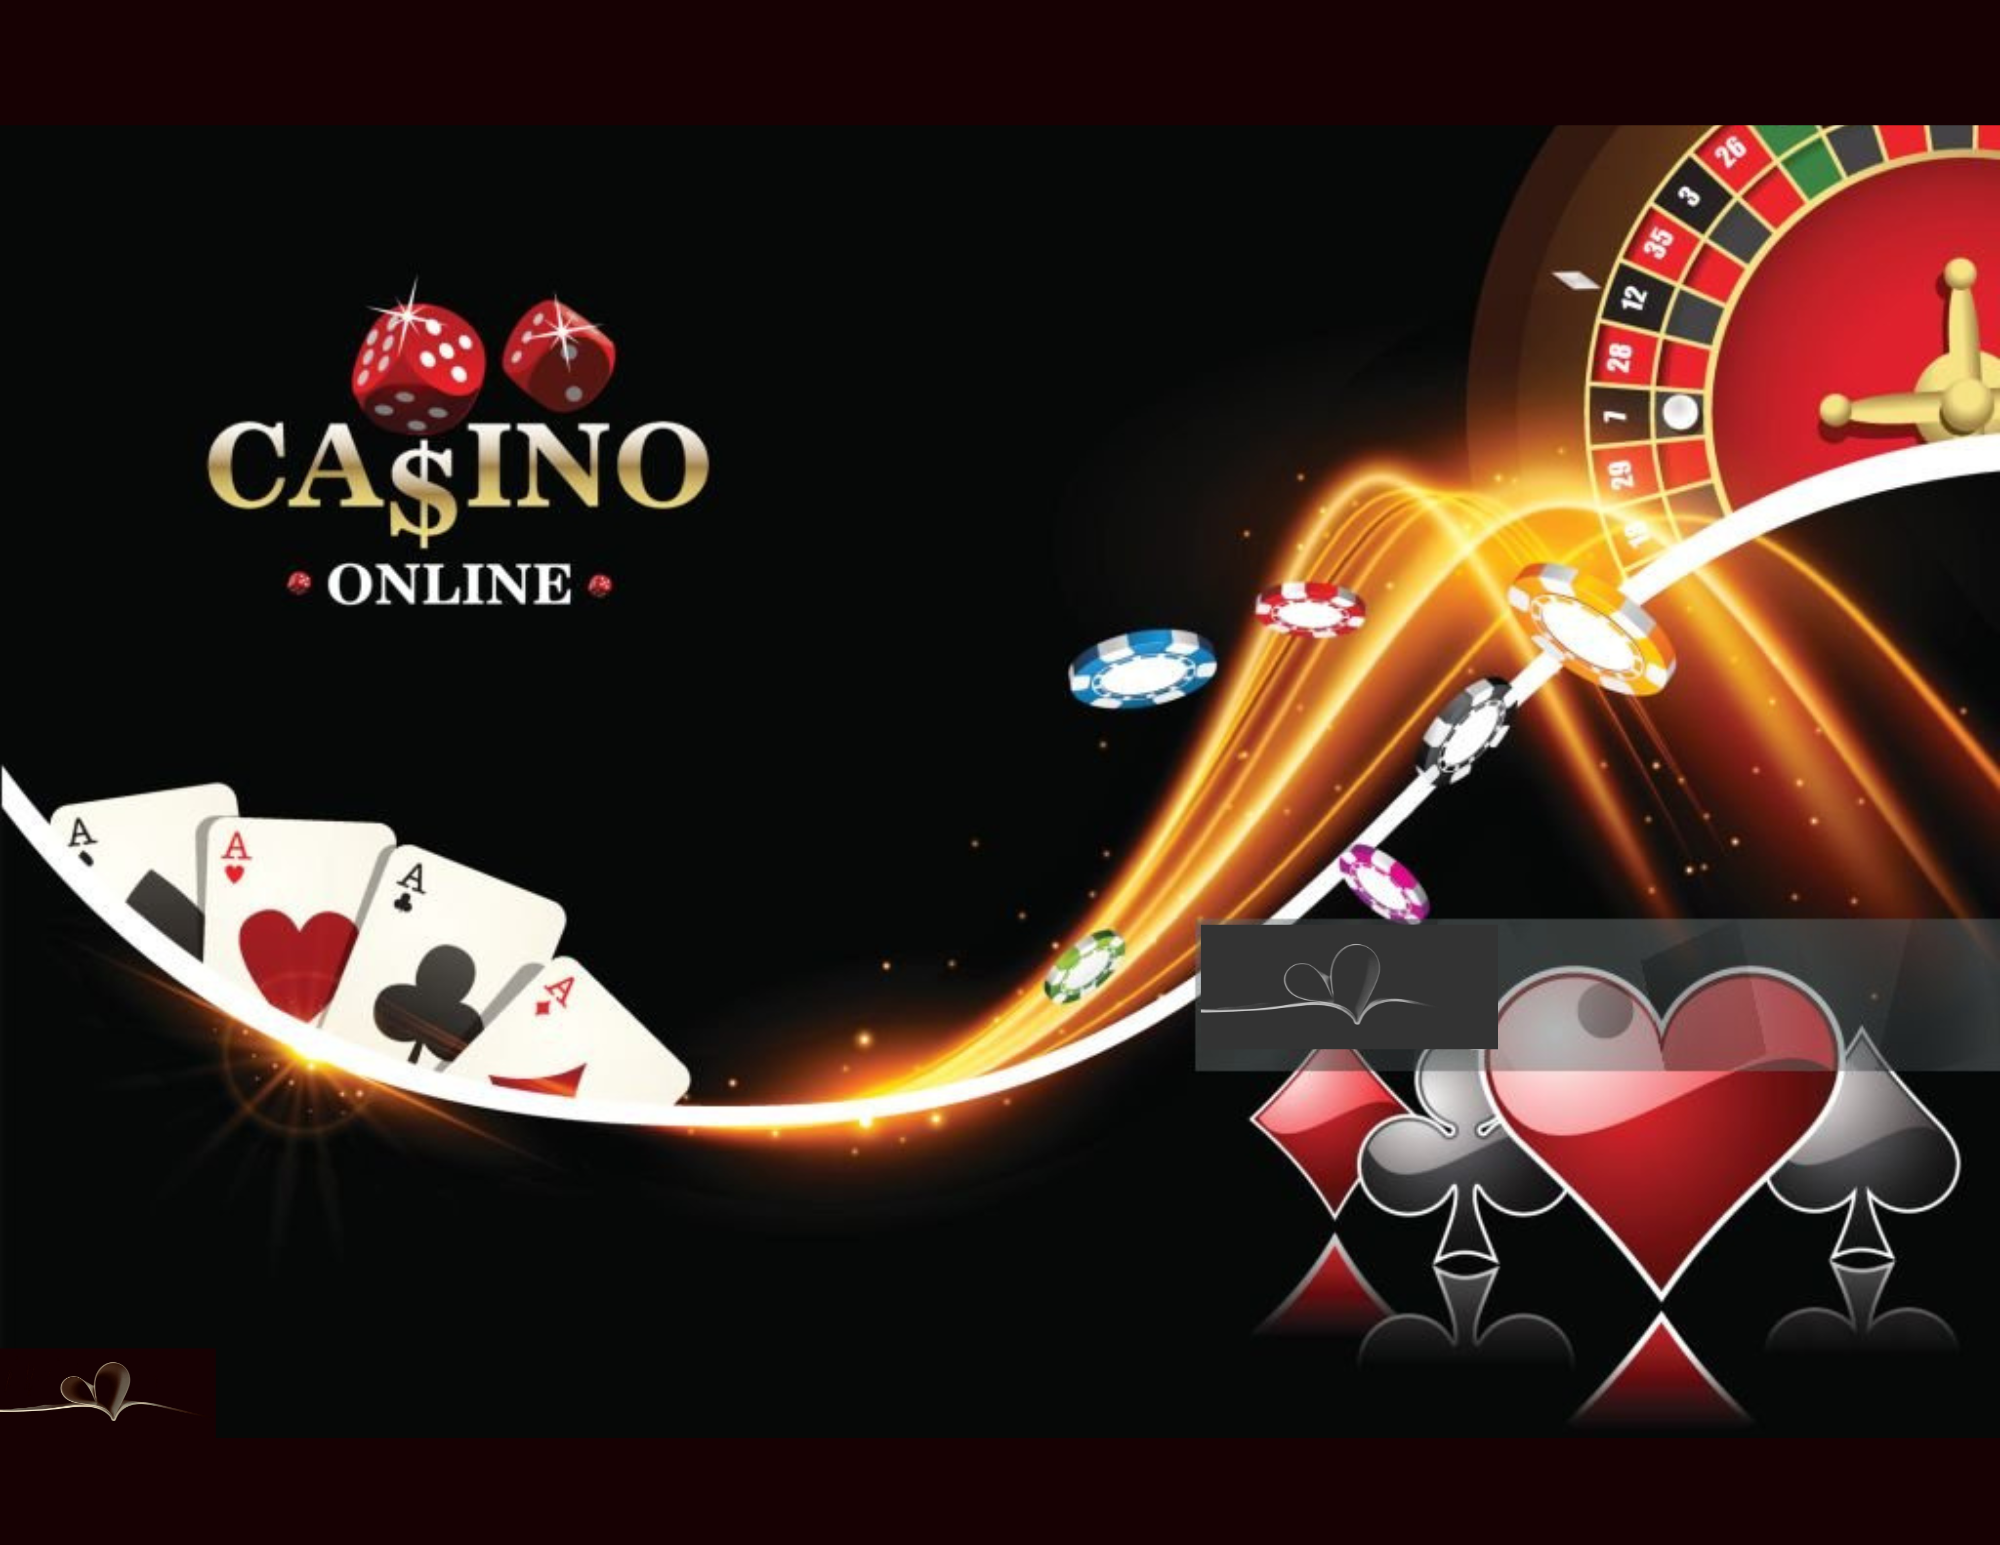
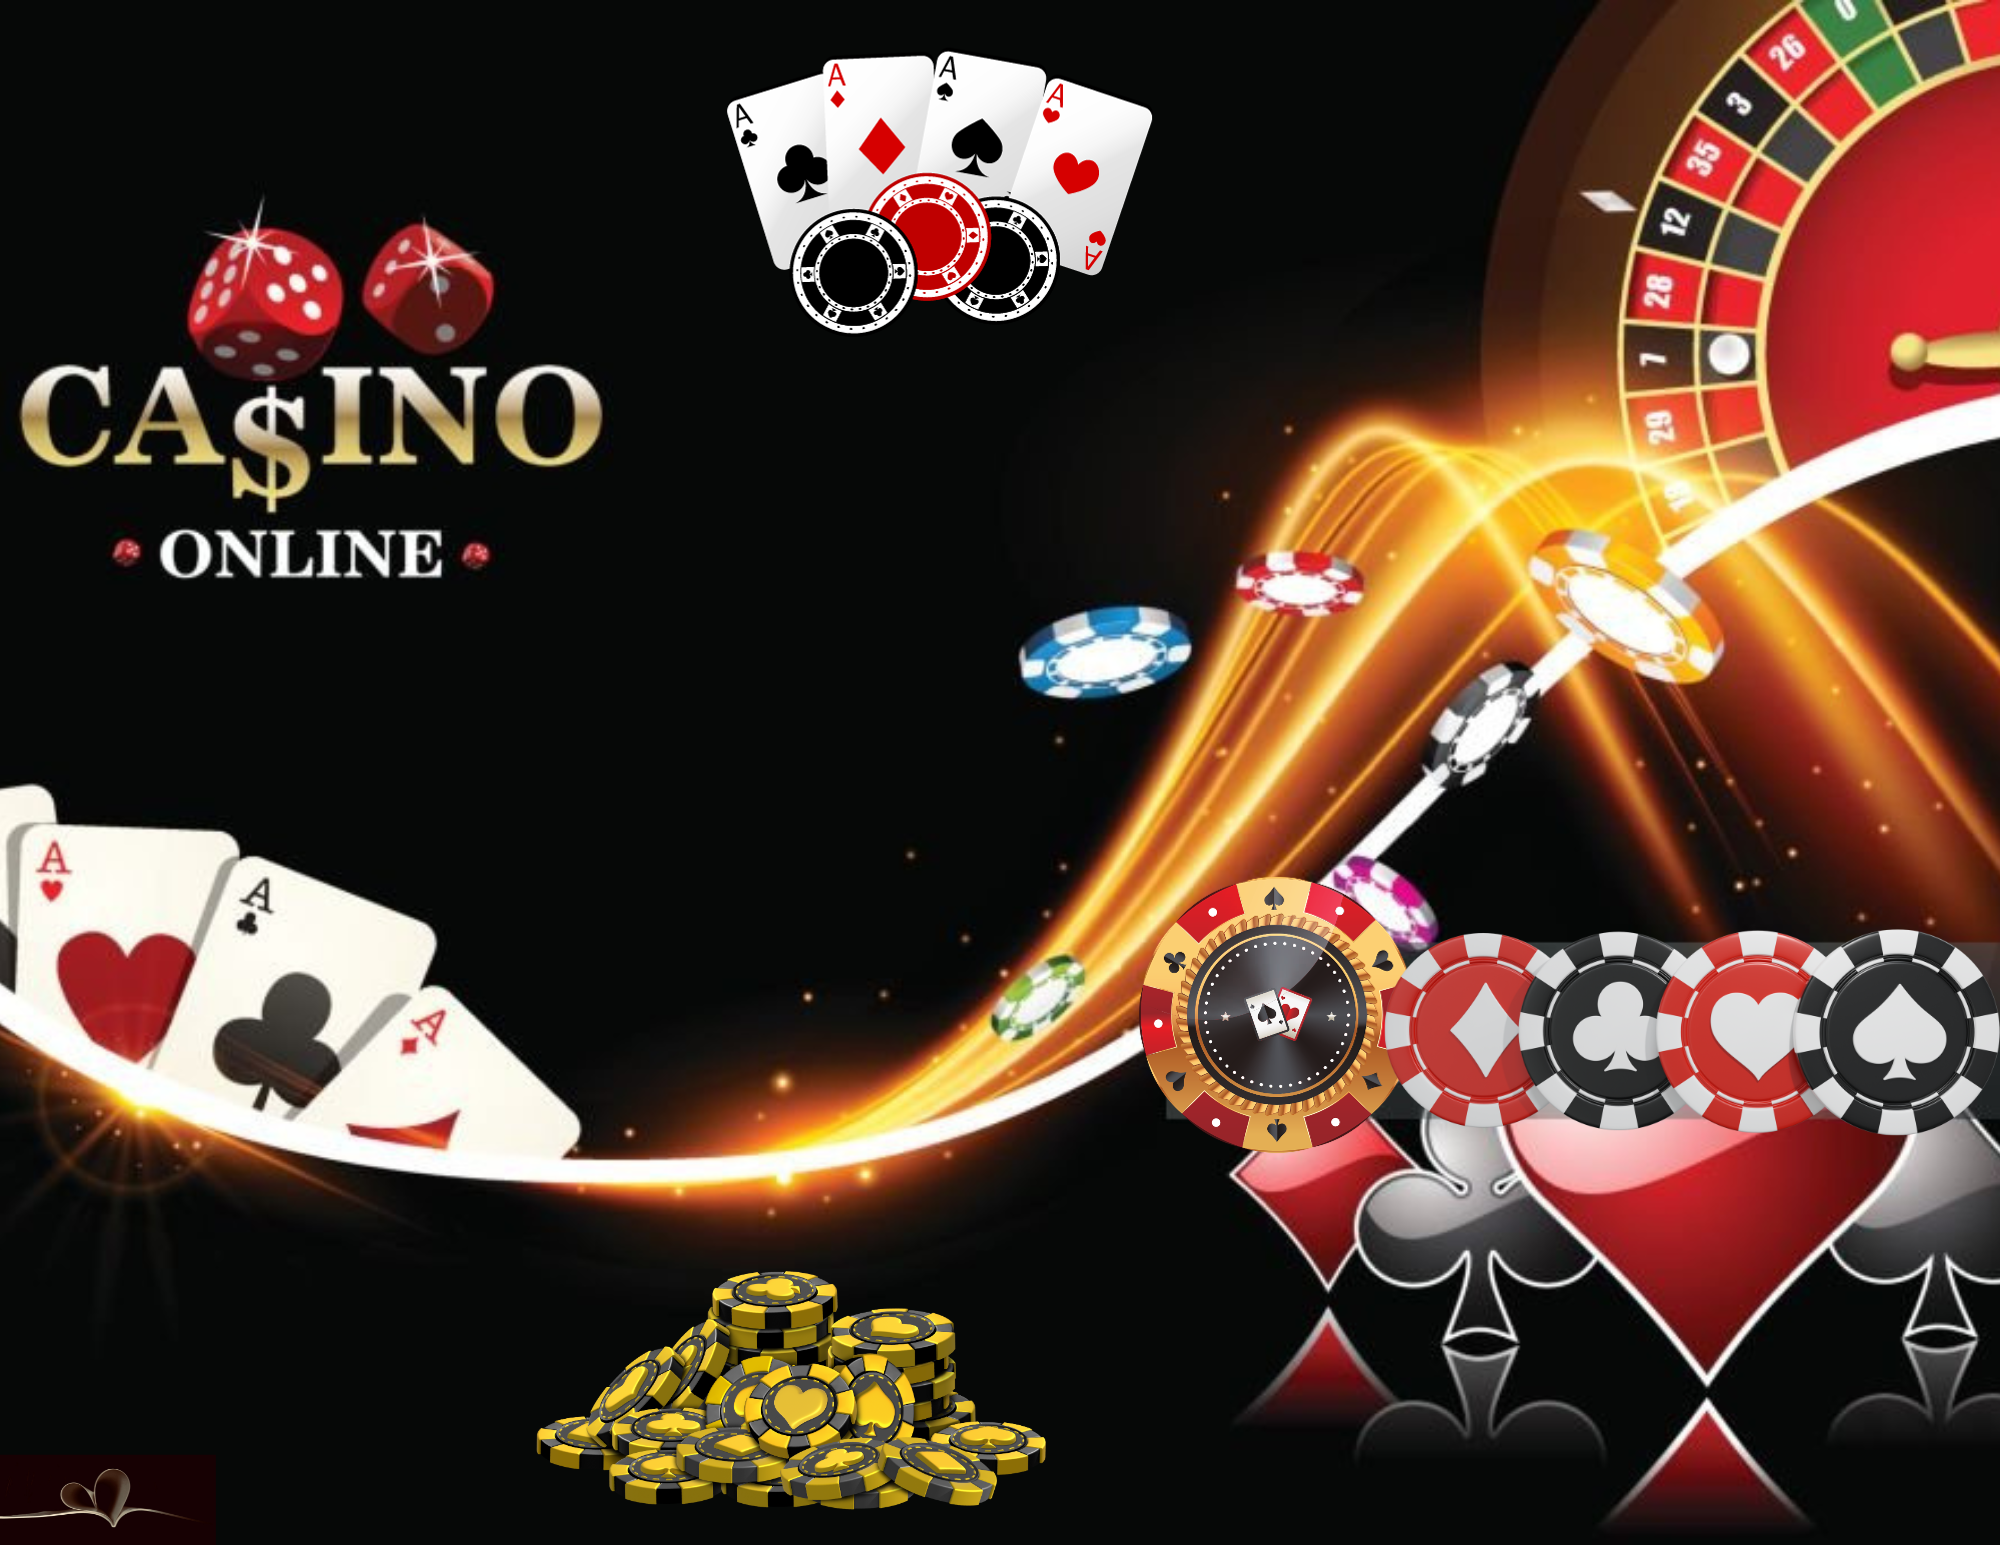
UI changes

diff --git a/templates/index.html b/templates/index.html
@@ -13,12 +13,13 @@
         <link rel="stylesheet" href="{{ url_for('static', filename='css/main.css') }}">
     </head>
     <body>
-    <!-- Headind with a link to the main casino page "Game Table" -->
-    <h1><a style="color: gold;" href="{{ url_for('indexmain') }}"><b>Enter Casino</b></a></h1>
-    <!-- Container for the main image -->
-    <div class="main_image_container">   
-    <!-- Mian image with a link to the main casino page -->
-    <img class='main_image'  src="{{ url_for('static', filename='images/new_back.png') }}" alt="casino background">
-    </div>
+     <!-- Container for the main image -->
+     <div class="main_image_container">   
+     <!-- Headind with a link to the main casino page "Game Table" -->
+     <h1><a style="color: gold;" href="{{ url_for('indexmain') }}"><b>Enter Casino</b></a></h1>
+     <!-- Mian image with a link to the main casino page -->
+     <img class='main_image'  src="{{ url_for('static', filename='images/new_back.png') }}" alt="casino background">
+     
+     </div>
     </body>
 </html>

diff --git a/static/css/main.css b/static/css/main.css
@@ -8,8 +8,18 @@ body {
 .main_image_container {
    text-align: center;
 }
-/* Styling for the main iamge */
-.main_image {
+ /* Styling for the main iamge */ 
+ .main_image {
    margin: auto;
    max-width: 100%; 
 }
+a {
+   text-decoration: none;
+}
+h1 {
+   color: gold;
+   display: flex;
+   justify-content: center;
+   font-size: 50px;
+   font-weight:900;
+} 

diff --git a/static/css/style.css b/static/css/style.css
@@ -1,7 +1,7 @@
 /*  Global styling for the entire page */
 body{
     font-family: Arial, Helvetica, sans-serif;
-    background-image: url("/static/images/image1.jpeg");
+    background-image: url("/static/images/image1.png");
     background-size: cover;
     background-size: 100%;
     margin-bottom: 50px;

diff --git a/templates/indexmain.html b/templates/indexmain.html
@@ -14,7 +14,6 @@
 </head>
 <body>
     <!-- Heading for the Balckjack table -->
-    <h3><em> Balck Jack Table! </em></h3>
     <div class="container">
         <!-- Dispay dealer's cards and total -->
         <p id="dealer_cards">Dealer's Cards: {{ cardsDl }}</p>
